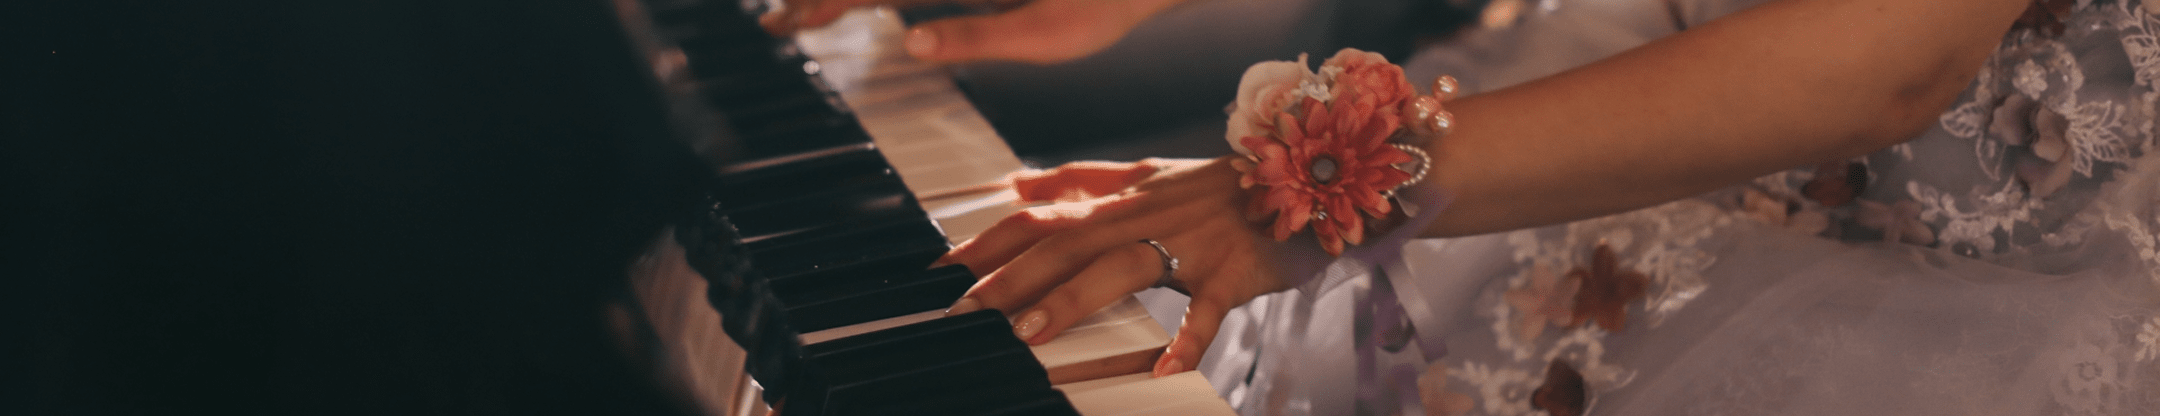
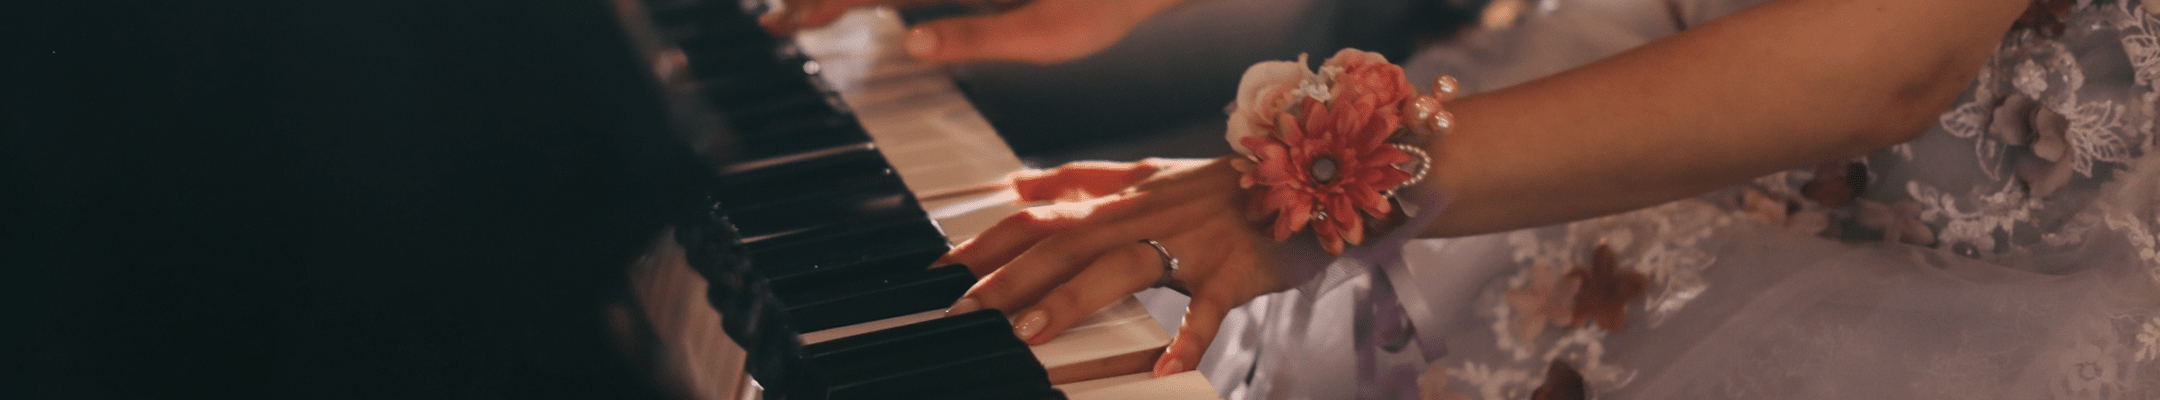
修正①提出前

diff --git a/css/style.css b/css/style.css
@@ -1082,7 +1082,7 @@ footer {
 }
 @media screen and (max-width: 767px) {
   .footer__copyright {
-    margin-top: 2.2rem;
+    margin-top: 2rem;
     font-size: 1.5rem;
     line-height: 1.3333333333;
   }
@@ -1103,7 +1103,7 @@ footer {
 }
 @media screen and (max-width: 767px) {
   .footer__sns {
-    margin-top: 1.7rem;
+    margin-top: 1.5rem;
   }
 }
 
@@ -1312,13 +1312,6 @@ footer {
   display: -webkit-box;
   display: -ms-flexbox;
   display: flex;
-  gap: 8rem;
-}
-@media screen and (max-width: 767px) {
-  .c-main__article-before-after {
-    margin-top: 5rem;
-    gap: 2.2rem;
-  }
 }
 
 .c-before-after__content {
@@ -1379,6 +1372,11 @@ footer {
   -webkit-box-orient: vertical;
   overflow: hidden;
   text-overflow: ellipsis;
+}
+@media screen and (max-width: 767px) {
+  .c-before-after__item-text p {
+    -webkit-line-clamp: 3;
+  }
 }
 
 .c-before-content p {
@@ -3000,7 +2998,7 @@ footer {
 }
 @media screen and (max-width: 767px) {
   .form__items-content .form__items-right textarea {
-    height: 17.7rem;
+    min-height: 17.7rem;
   }
 }
 .form__items-content .form__items-right textarea::-webkit-input-placeholder {
@@ -3192,6 +3190,7 @@ footer {
     font-size: 2rem;
     line-height: 1.5;
     margin-top: 3.1rem;
+    -webkit-line-clamp: 2;
   }
 }
 .blog-blog__card-text time {
@@ -3222,6 +3221,7 @@ footer {
     font-size: 1.6rem;
     line-height: 1.875;
     margin-top: 0.9rem;
+    -webkit-line-clamp: 5;
   }
 }
 
@@ -3635,10 +3635,17 @@ footer {
 
 .blog-before-after {
   margin-top: 5.7rem;
+  gap: 8rem;
+}
+@media screen and (max-width: 767px) {
+  .blog-before-after {
+    margin-top: 4.8rem;
+    gap: 2.2rem;
+  }
 }
 
 .blog-details-main__article {
-  margin-top: 9.5rem;
+  margin-top: 10rem;
 }
 @media screen and (max-width: 767px) {
   .blog-details-main__article {
@@ -4546,6 +4553,13 @@ footer {
 
 .result-before-after {
   margin-top: 6rem;
+  gap: 20rem;
+}
+@media screen and (max-width: 767px) {
+  .result-before-after {
+    margin-top: 4.4rem;
+    gap: 2.2rem;
+  }
 }
 
 .result-details-main__article {
@@ -4553,7 +4567,7 @@ footer {
 }
 @media screen and (max-width: 767px) {
   .result-details-main__article {
-    margin-top: 6.3rem;
+    margin-top: 6rem;
   }
 }
 

diff --git a/result_details.html b/result_details.html
@@ -60,7 +60,7 @@
 
                 <section class="result-details__band c-band" id="first-view">
                     <div class="inner">
-                        <h1 class="c-band-text"><a href="index.html">ホーム</a>&emsp;&gt;&emsp;&nbsp;<a href="result_list.html">卒業実績</a>&emsp;&nbsp;&gt;&emsp;&nbsp;&nbsp;<a href="result_details.html">ポップス</a>&emsp;<span class="c-band-text-arrow">&gt;</span>&emsp;&emsp;タイトルが入ります。タイトルが入ります。タイトルが入ります。</h1>
+                        <h1 class="c-band-text"><a href="index.html">ホーム</a>&emsp;&gt;&emsp;&nbsp;<a href="result_list.html">卒業実績</a>&emsp;&nbsp;&gt;&emsp;&nbsp;&nbsp;<a href="result_details.html">ポップス</a>&emsp;<span class="c-band-text-arrow">&gt;</span>&emsp;タイトルが入ります。タイトルが入ります。タイトルが入ります。</h1>
                     </div>
                 </section>
             

diff --git a/scss/object/project/_blog-list.scss b/scss/object/project/_blog-list.scss
@@ -68,13 +68,13 @@
         @include sp {
             @include text-style(2rem, calc(30/20));
             margin-top: 3.1rem;
+            -webkit-line-clamp: 2;
         }
     }
     time {
         display: block;
         @include text-style(1.7rem, calc(30/17));
         font-weight: 500;
-        // margin-top: 1rem;
         @include sp {
             text-align: right;
             margin-top: 0.4rem;
@@ -92,6 +92,7 @@
         @include sp {
             @include text-style(1.6rem, calc(30/16));
             margin-top: 0.9rem;
+            -webkit-line-clamp: 5;
         }
     }
 }

diff --git a/scss/object/component/_component.scss b/scss/object/component/_component.scss
@@ -171,11 +171,6 @@
 // before&after
 .c-main__article-before-after{
     display: flex;
-    gap: 8rem;
-    @include sp {
-        margin-top: 5rem;
-        gap: 2.2rem;
-    }
 }
 
 .c-before-after__content {
@@ -226,6 +221,9 @@
             -webkit-box-orient: vertical;
             overflow: hidden;
             text-overflow: ellipsis;
+            @include sp {
+                -webkit-line-clamp: 3;
+            }
         }
     }
 }

diff --git a/scss/object/project/_blog-details.scss b/scss/object/project/_blog-details.scss
@@ -331,13 +331,21 @@
 // article-before&after--------------------------------
 .blog-before-after {
     margin-top: 5.7rem;
+    gap: 8rem;
+    @include sp {
+        margin-top: 4.8rem;
+        gap: 2.2rem;
+
+    }
 }
 
 // article--------------------------------
 .blog-details-main__article {
-    margin-top: 9.5rem;
+    margin-top: 10rem;
+
     @include sp {
         margin-top: 6.1rem;
+
     }
 }
 

diff --git a/scss/object/project/_result-details.scss b/scss/object/project/_result-details.scss
@@ -136,13 +136,18 @@
 // article-before&after--------------------------------
 .result-before-after {
     margin-top: 6rem;
+    gap: 20rem;
+    @include sp {
+        margin-top: 4.4rem;
+        gap: 2.2rem;
+    }
 }
 
 // article--------------------------------
 .result-details-main__article {
     margin-top: 10rem;
     @include sp {
-        margin-top: 6.3rem;
+        margin-top: 6rem;
     }
 }
 

diff --git a/scss/layout/_footer.scss b/scss/layout/_footer.scss
@@ -45,7 +45,7 @@ footer {
     @include text-style(1.5rem, calc(33/15));
     font-weight: 500;
     @include sp {
-        margin-top: 2.2rem;
+        margin-top: 2.0rem;
         @include text-style(1.5rem, calc(20/15));
     }
 }
@@ -57,7 +57,7 @@ footer {
         gap: 2.5rem;
     }
     @include sp {
-        margin-top: 1.7rem;
+        margin-top: 1.5rem;
     }
 }
 

diff --git a/scss/object/project/_contact-form.scss b/scss/object/project/_contact-form.scss
@@ -205,7 +205,7 @@
             min-height: 29rem;
             resize: vertical;
             @include sp {
-                height: 17.7rem;
+                min-height: 17.7rem;
             }
             
             &::placeholder {

diff --git a/scss/object/project/_result-list.scss b/scss/object/project/_result-list.scss
@@ -8,6 +8,8 @@
     @include text-style(2.5rem, 1);
 }
 
+
+
 // テンプレート--------------------------------
 // items
 .result-list__main-items {
